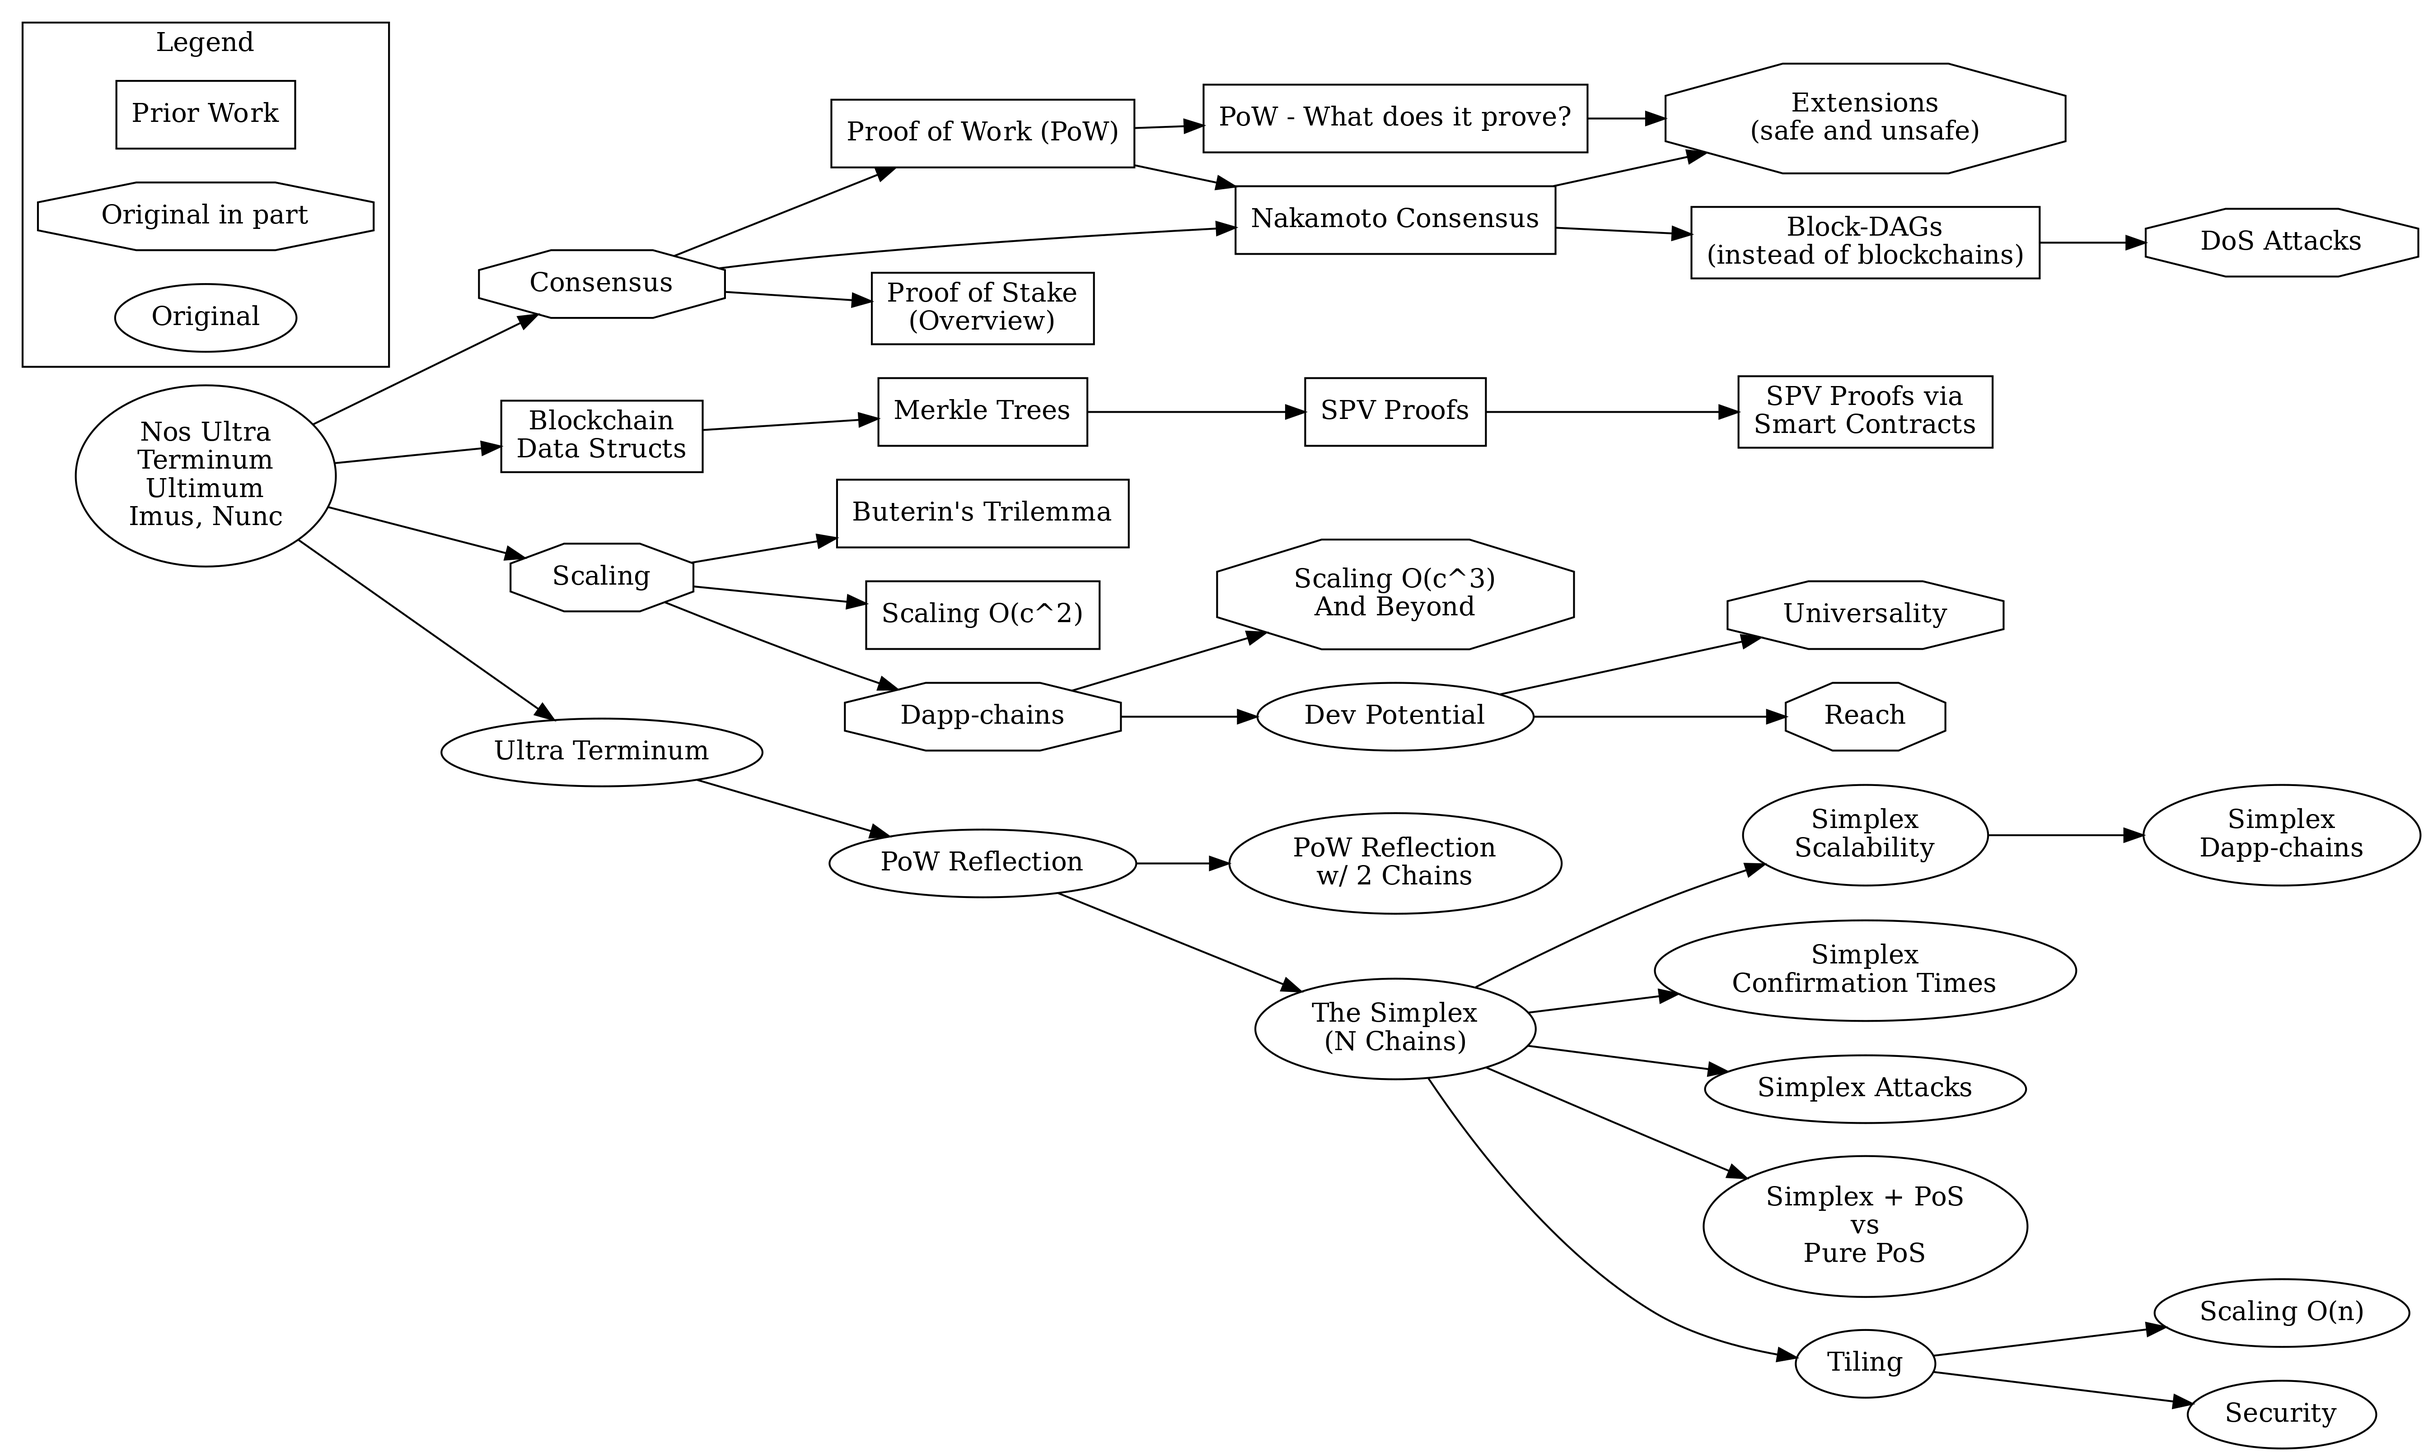
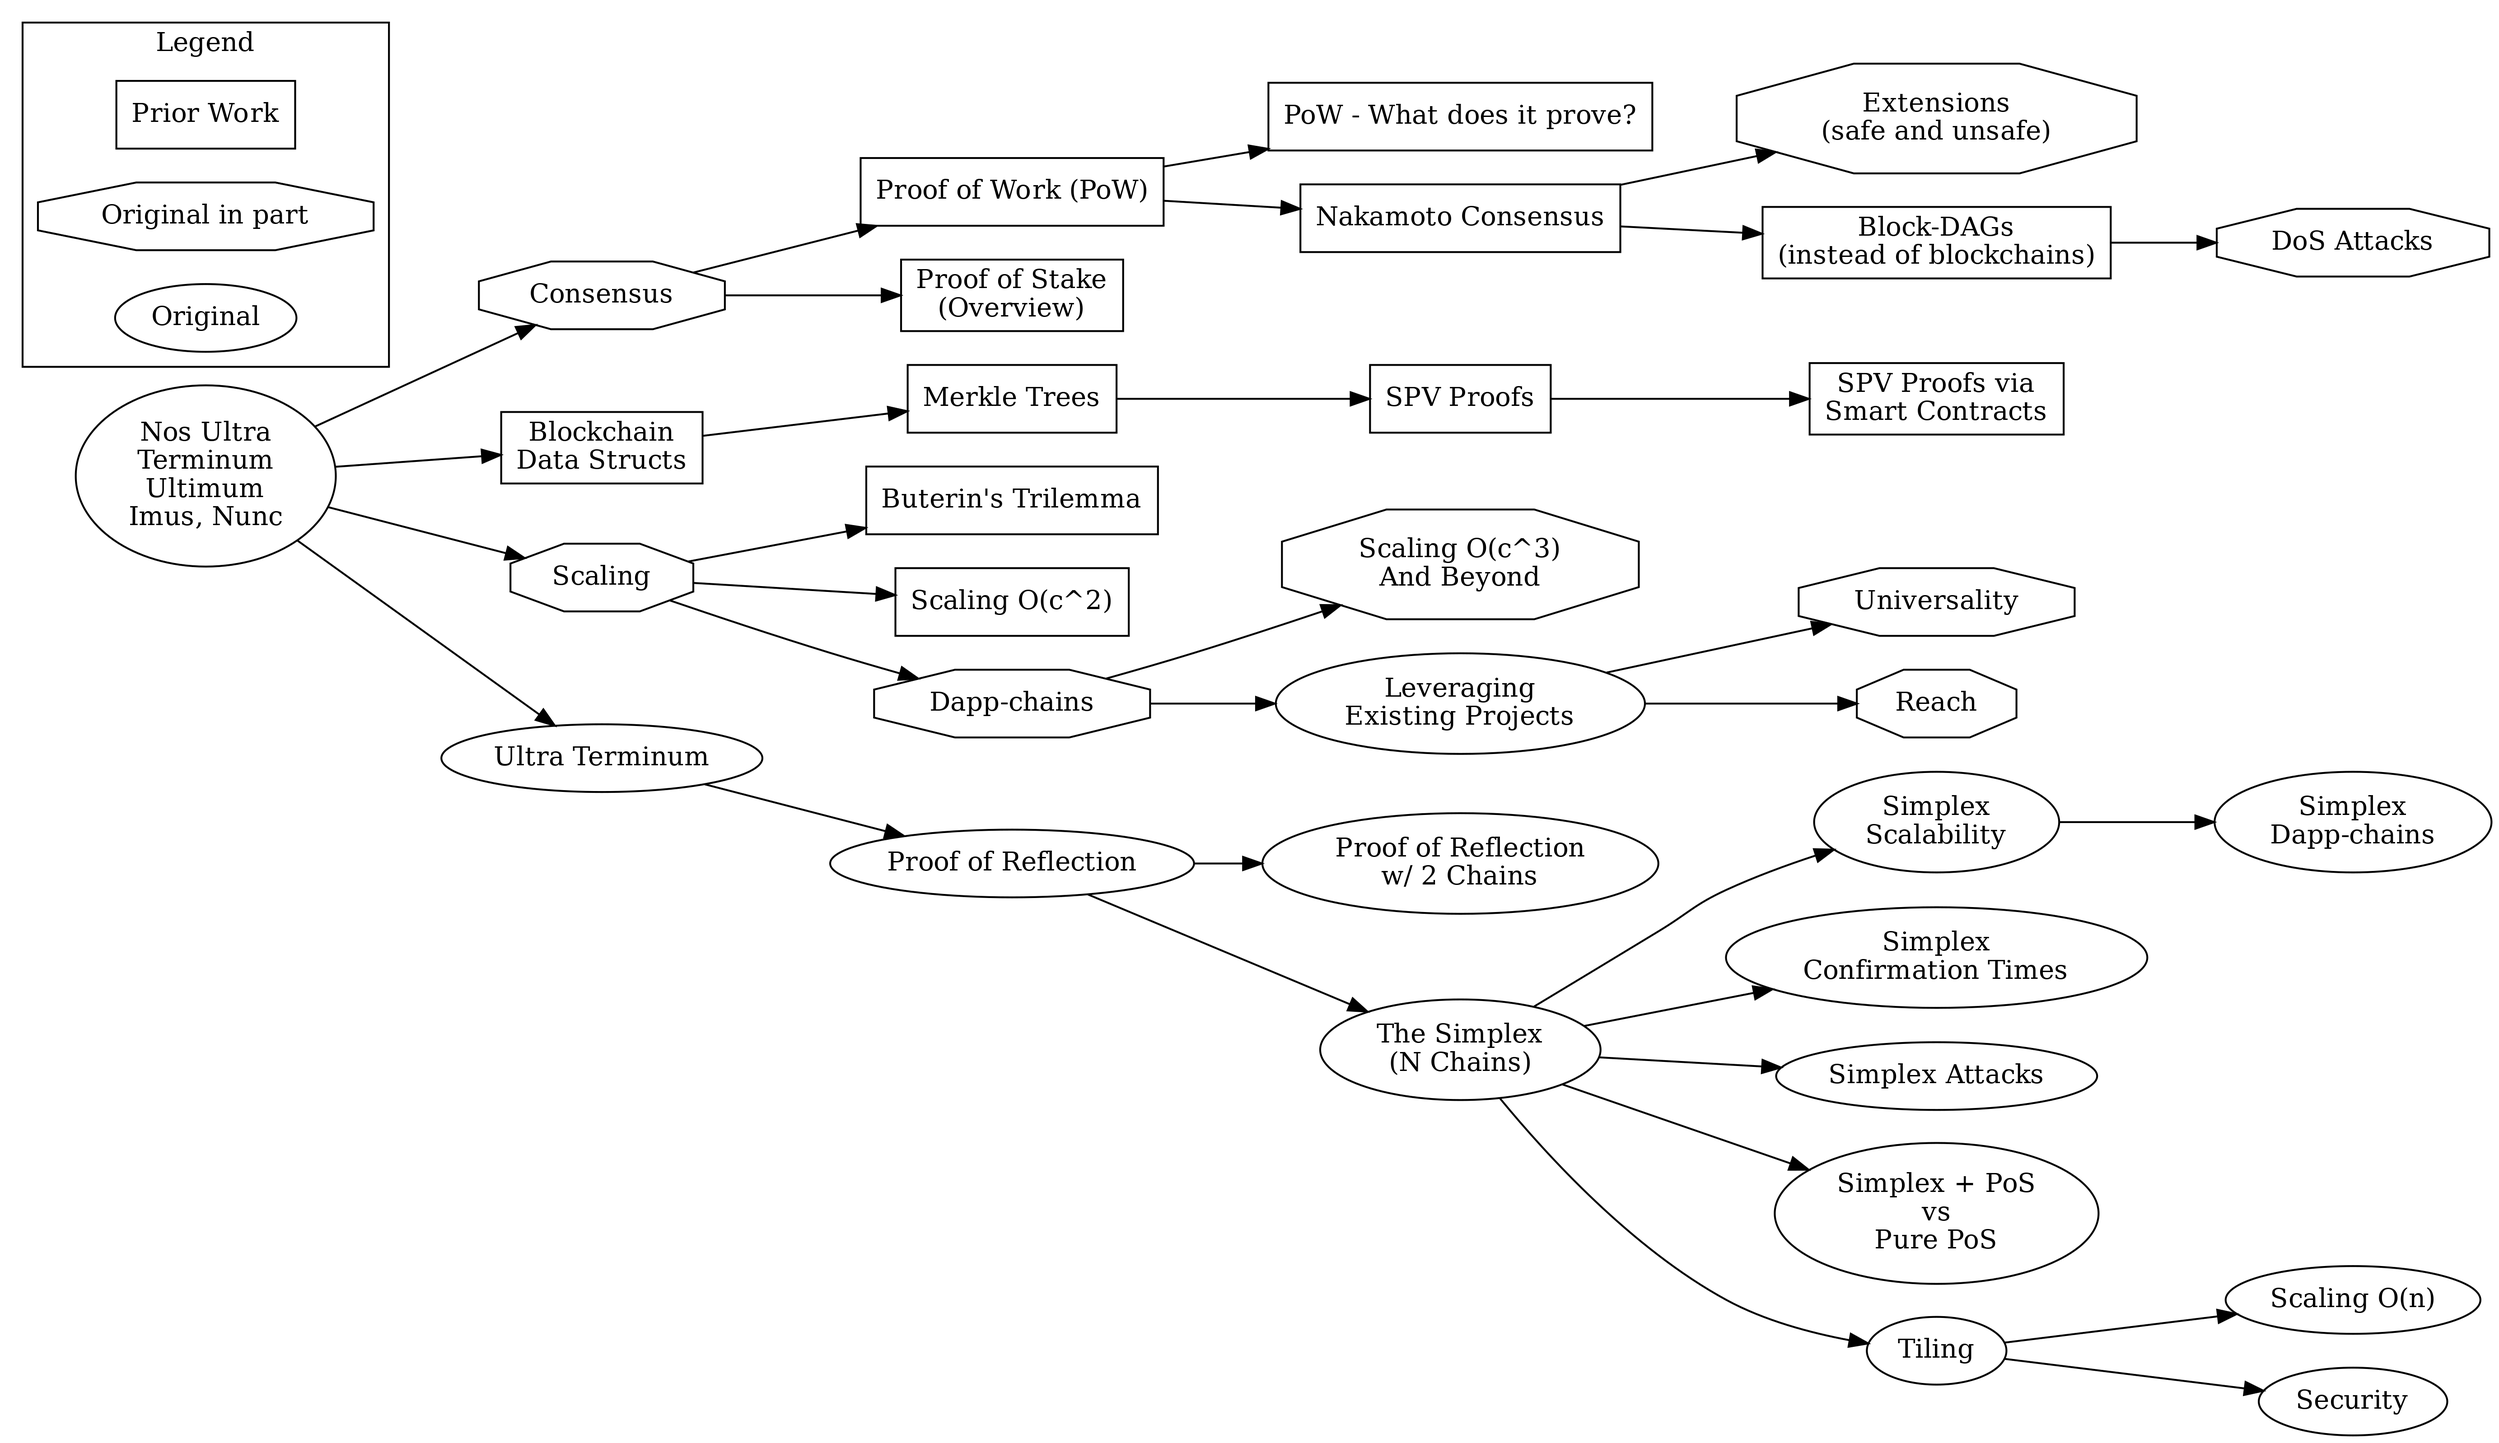
minor updates to topic-tree and other

diff --git a/includes/ut/diags/dag_simple2_linearization_sag.tex b/includes/ut/diags/dag_simple2_linearization_sag.tex
@@ -14,9 +14,10 @@
 \tikzstyle{arrowLin} = [thick, ->, -to, shorten >= 2pt, shorten <= 2pt]%
 \newcommand\TikzDagSimple{
     \providecommand\AbbrChain{B}
-    \node (prevDots) [yshift=0cm] {$\vdots$};
+    % \node (prevDots) [yshift=0cm] {$\vdots$};
 
-    \node (block1) [block, below = of prevDots] {$\AbbrChain_{i}$};
+    \node (block1) [block] {$\AbbrChain_{i}$};
+    % \node (block1) [block, below = of prevDots] {$\AbbrChain_{i}$};
     %\draw [arrowParent] (block1) -- (prevDots);
 
     \node (block2mid) [below = of block1] {};
@@ -43,7 +44,7 @@
     \draw [arrowLin] (block2/2) -- (block1);
 
     \xdef\xs{0cm}
-    \xdef\topNode{prevDots}
+    \xdef\topNode{block1}
     \xdef\botNode{block4}
     \xdef\leftMostNode{block2/1}
 

diff --git a/10-Ultra-Terminum/40-nutin/20-pow-reflection.md b/10-Ultra-Terminum/40-nutin/20-pow-reflection.md
@@ -214,7 +214,7 @@ The final step in this progression is *mutual reflection* -- where both chains t
 
 There are several details that still require discussion, though, such as: *how exactly is weight contributed by a reflecting chain converted to weight in the local chain?* (discussed in \autoref{sec:comparing-diff-pows}); and *how can proofs of reflection be calculated without the requirement that miners are full nodes of both chains?* (discussed in \autoref{sec:practical-considerations}).
 
-Despite these omissions, the *essence* of *Proof of Reflection* should now be apparent. That is: the idea that blockchains can track the history of other blockchains, and thus confirm that history in the same way they confirm transactions, can *in principle* be used to increase the difficulty of attacking those blockchains. *In principle* it is possible to increase the security of a blockchain via *reflection*.
+Despite these omissions, the *essence* of *Proof of Reflection* should now be apparent. *In principle*, we can make blockchains more difficult to attack based on the idea that *blockchains can track the history of other blockchains (and confirm that chain's history like they do transactions)*. *In principle*, it is possible to increase the security of a blockchain via *reflection*.
 
 \begin{comment}
 

diff --git a/10-Ultra-Terminum/00.md b/10-Ultra-Terminum/00.md
@@ -62,7 +62,7 @@ header-includes: |
 
     \newcommand\preparedfor{}
     \begin{comment}
-    \newcommand\preparedfor{ -- Prepared for NAME. Not for distribution.}
+    \renewcommand\preparedfor{ -- Prepared for NAME. Not for distribution.}
     \end{comment}
 
     \pagestyle{fancy}
